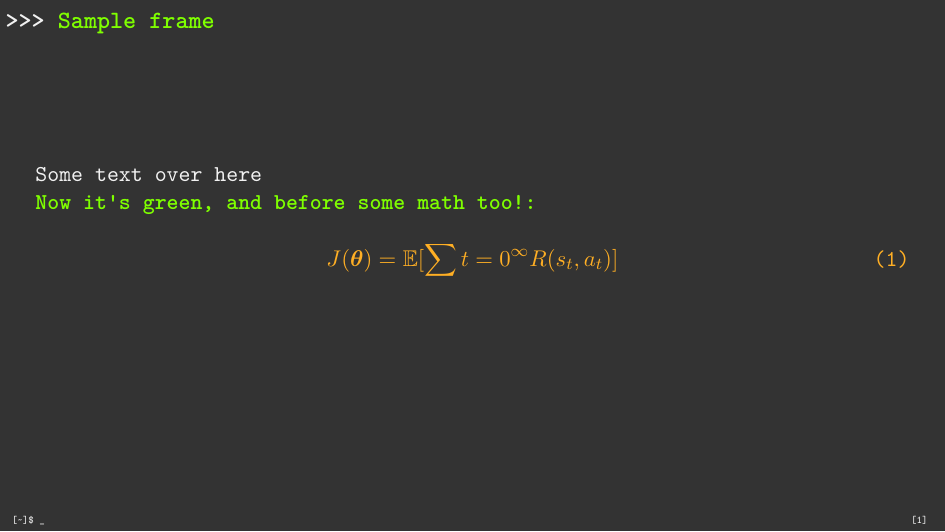
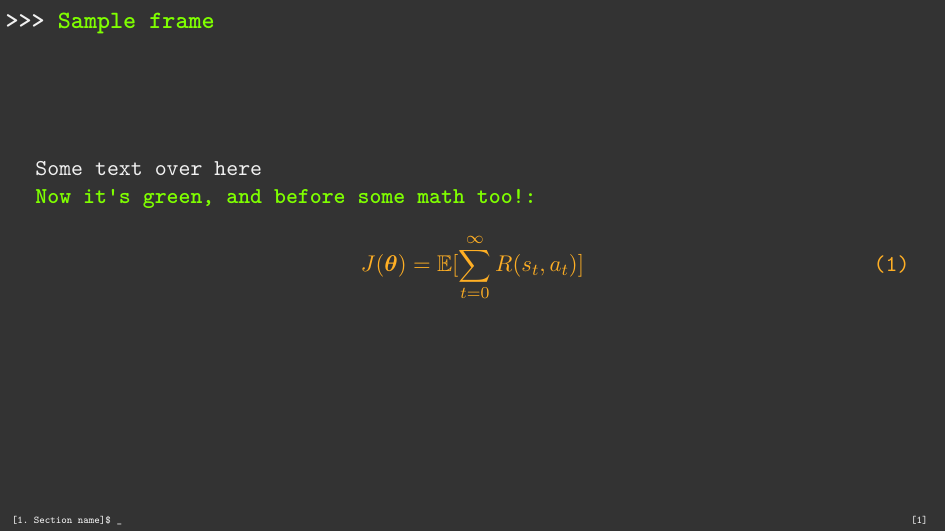
Fixed links in README and improved math slide

diff --git a/presentation.tex b/presentation.tex
@@ -1,17 +1,10 @@
 \documentclass[xcolor=dvipsnames, compress, aspectratio=169]{beamer}
 \usetheme{DarkConsole}
 
-\usepackage{amsmath}
-\usepackage{bm}
-
 \title{Presentation title}
 \author{\textbf{Yours Truly}}
 
 \begin{document}
-%\maketitle
+\maketitle
 % Your content goes here
-
-\begin{frame}
-  \maketitle
-\end{frame}
 \end{document}

diff --git a/README.md b/README.md
@@ -2,23 +2,12 @@
 
 Beamer template derived from [DarkConsoleTheme](https://www.overleaf.com/latex/templates/darkconsole-beamer-theme/yrqyrpvxzjvj), but cooler, in my opinion.
 
-**NOTE:** `pdflatex` won't work with this template, I recommend using`lualatex`.
+**NOTE:** `pdflatex` won't work as a latex compiler for this  template, I recommend instead using`lualatex`.
 
 ## Template structure:
 + `kmbeamer_color.sty`: Defines colors used throughout template (i.e: `\definecolor{lightorange}{HTML}{FFAF24}`)
 + `beamerthemeDarkConsole.sty`: Defines template layout (i.e footnotes, title page)
 + `beamercolorthemeDarkConsole.sty`: Defines colours for certain latex elements.
-
-
-## Images
-
-#### Title
-
-![Title]{./sample_images/title.png)
-
-#### Random frame
-
-![random_frame]{./sample_images/math.png)
 
 ## Usage
 
@@ -40,3 +29,13 @@ Beamer template derived from [DarkConsoleTheme](https://www.overleaf.com/latex/t
 \end{document}
 ```
 3 - Compile using `lualatex presentation.tex`
+
+
+
+## Images
+
+### Title slide
+![Title](./sample_images/title.png)
+
+### Random slide
+![random_frame](./sample_images/math.png)
